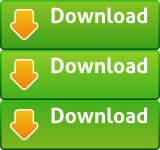
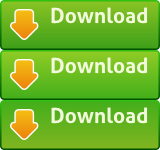
Deleted Journal font, deleted codeigniter line from 2.x download link on homepage, changed colors on download buttons

Changed region(s): [[0.3125, 0.3733, 0.9375, 0.5067], [0.3125, 0.72, 0.9375, 0.8267], [0.3125, 0.0533, 0.9375, 0.16]]

diff --git a/media/css/website.css b/media/css/website.css
@@ -12,7 +12,6 @@ h5 small,
 h6 small { font-weight: normal; font-size: 0.8em; }
 
 h1 { color: #113C32; margin: 0.4em 0 0.5em; }
-.cufon-active h1 { font-size:3em; margin:0 0 0.3em;}
 h2 { color: #ED890E; margin: 0.4em 0 0.5em; }
 h3 { color: #113C32; margin: 0.4em 0 0.5em; }
 h4 { color: #113C32; margin: 0.4em 0 0.5em; }
@@ -308,7 +307,7 @@ h4 { color: #113C32; margin: 0.4em 0 0.5em; }
 
 
 #content a.download-button {
-	color: #F78900;
+	color: #113C32;
 	font-size: 1.2em;
 	line-height: 0;
 	background:url('../img/download-button.png') 0 0 no-repeat;

diff --git a/application/views/pages/home.php b/application/views/pages/home.php
@@ -76,7 +76,6 @@
 				<ul>
 					<li>Uses the <abbr title="Model View Controller">MVC</abbr> pattern</li>
 					<li>Powerful event handler</li>
-					<li>Originally based on <a href="http://www.codeigniter.com">CodeIgniter</a></li>
 					<li>Long Term Support</li>
 				</ul>
 				<a href="<?php echo url::base().'download?get='.$versions['ko2']['version'] ?>" class="download-button">Kohana <?php echo $versions['ko2']['version'] ?></a>
@@ -87,7 +86,7 @@
 					<li>Uses the <abbr title="Hierarchical Model View Controller">HMVC</abbr> pattern</li>
 					<li>Flexible file system structure</li>
 					<li>Advanced Routing</li>
-					<li>Rapid development cycle.</li>
+					<li>Rapid development cycle</li>
 				</ul>
 				<a href="<?php echo url::base().'download?get='.$versions['ko3']['version'] ?>" class="download-button">Kohana <?php echo $versions['ko3']['version'] ?></a>
 			</div>

diff --git a/application/views/template.php b/application/views/template.php
@@ -14,16 +14,14 @@
 	echo HTML::script('media/js/website.js'), "\n";
 	
 	// Don't use cufon if the font doesn't support the language
-	$cufon_langs = array('en','es');
+	$cufon_langs = array('en');
 	if (in_array(Request::instance()->param('lang'),$cufon_langs))
 	{
 		echo HTML::script('media/js/cufon-yui.js'), "\n";
-		echo HTML::script('media/js/Journal_400.font.js'), "\n";
 		echo HTML::script('media/js/Aller.font.js'), "\n";
 		echo "
 		<script type='text/javascript'>
-			Cufon.replace(' h1 ', { fontFamily: 'Journal' });
-			Cufon.replace(' h2,h3,h4,a.button,a.download-button,#testimonial ', { fontFamily: 'Aller' });
+			Cufon.replace(' h1,h2,h3,h4,a.button,a.download-button ');
 		</script>";
 	}
 	?>
